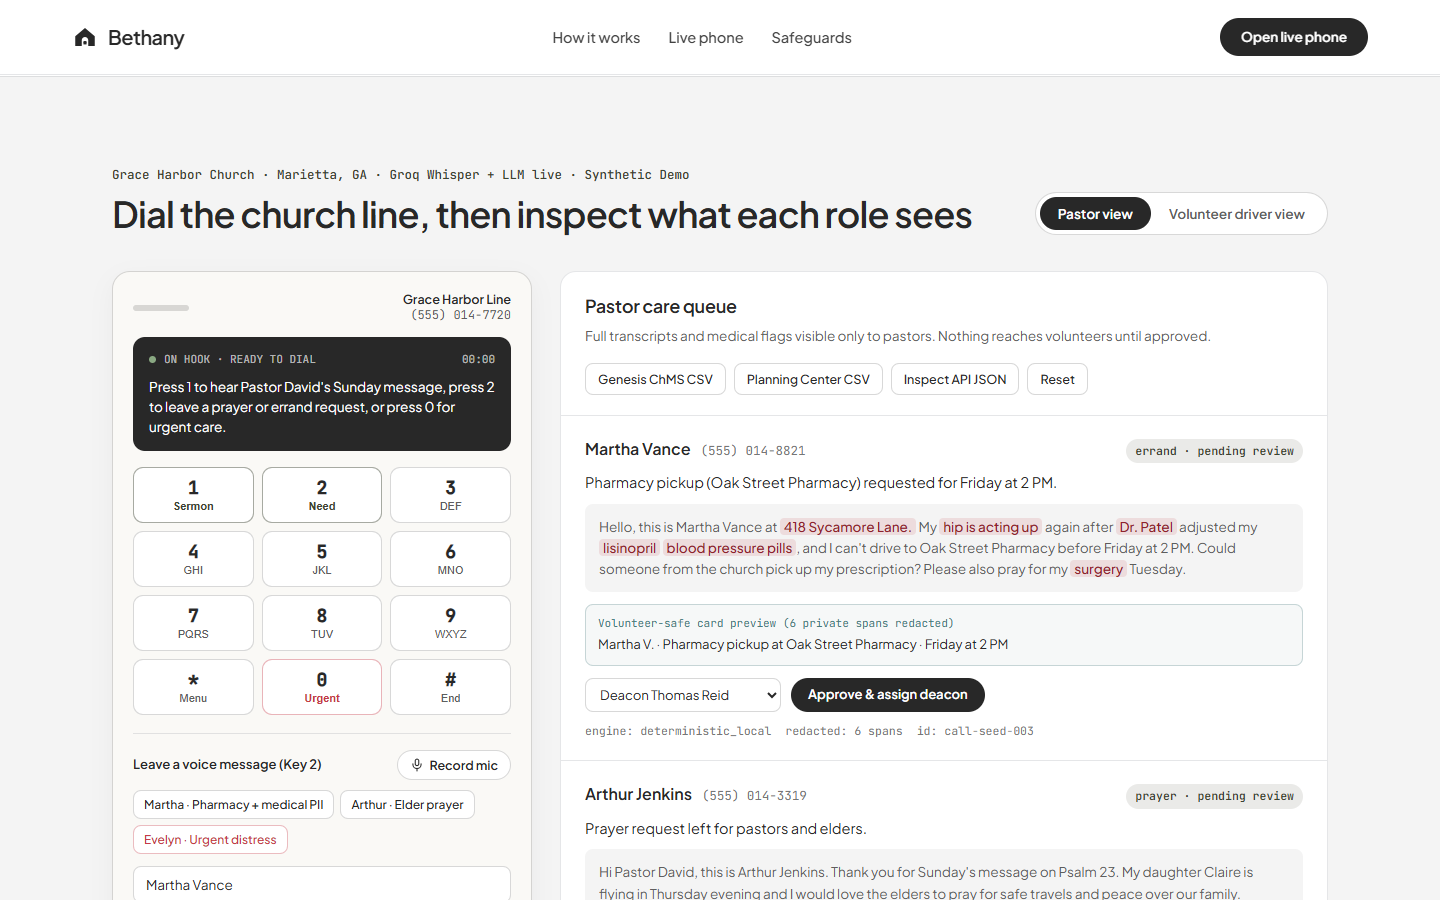
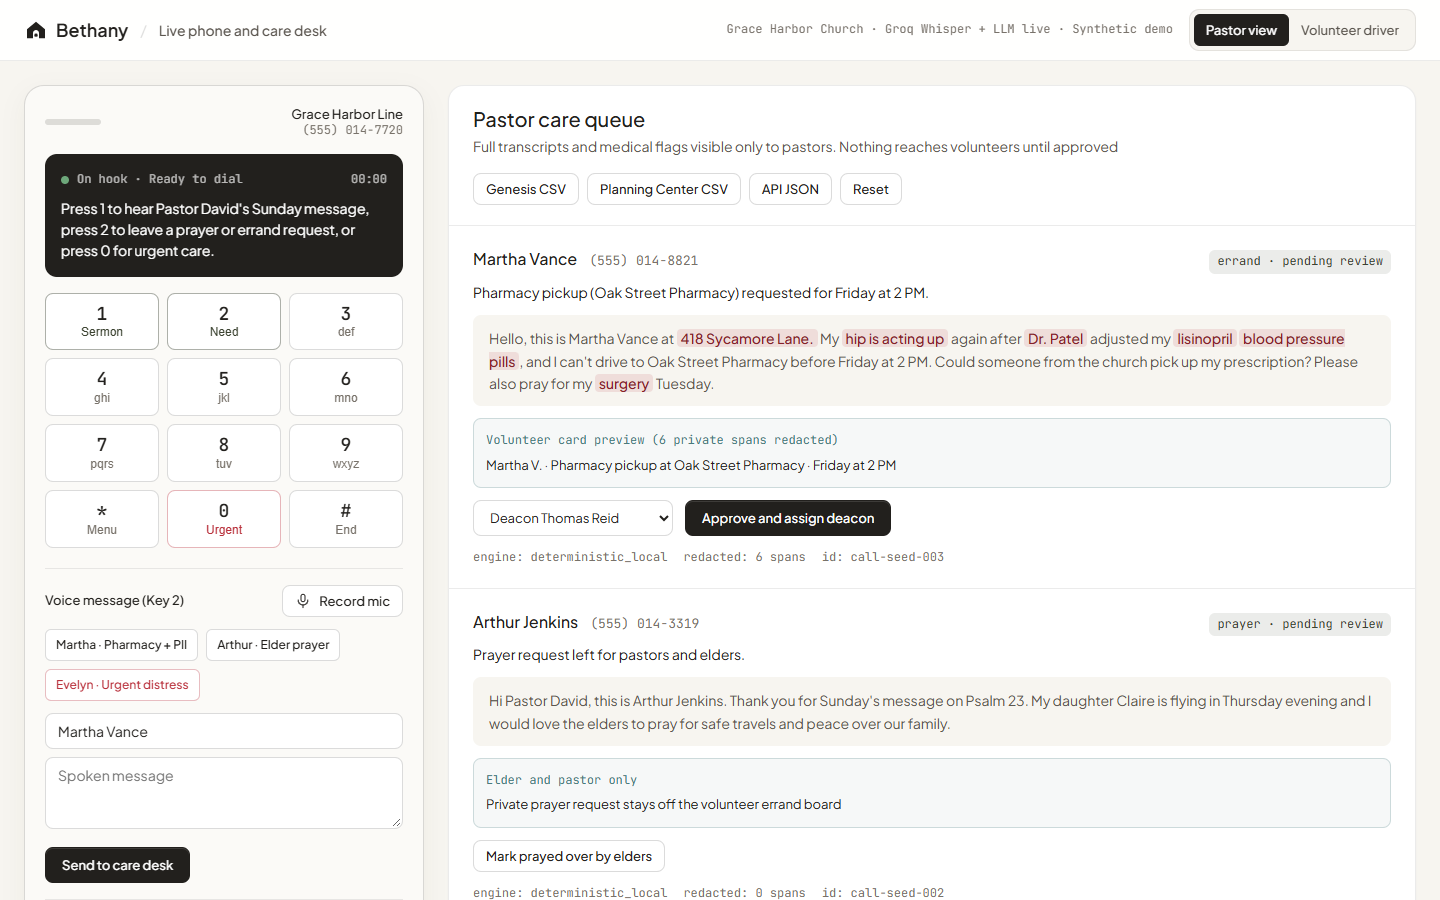
docs(screenshots): refresh README and verified landing and /phone tab previews

diff --git a/README.md b/README.md
@@ -13,9 +13,9 @@ Bethany gives a congregation one phone number that works from any rotary or push
 
 ![Bethany editorial landing view with landline care audio player](docs/screenshots/hero.jpg)
 
-## Try It in 10 Seconds (`/judge`)
+## Try It in 10 Seconds (`/phone` or `/judge`)
 
-Open `/judge` (or `http://localhost:3001/judge` locally). You do not need an account, a phone number, or an API key to test every path:
+Click **Open live phone** on the landing page (opens `/phone` in a dedicated tab) or go straight to `/judge`. You do not need an account, a phone number, or an API key to test every path:
 
 1. **Press `1` on the keypad** to hear the pastor's Psalm 23 message stream from `GET /api/sermon/audio` and inspect the Twilio TwiML XML that a real phone call receives.
 2. **Press `2` (or click a synthetic caller preset)** to send a spoken voice message through live Groq Whisper transcription or pre-seeded fixtures.
